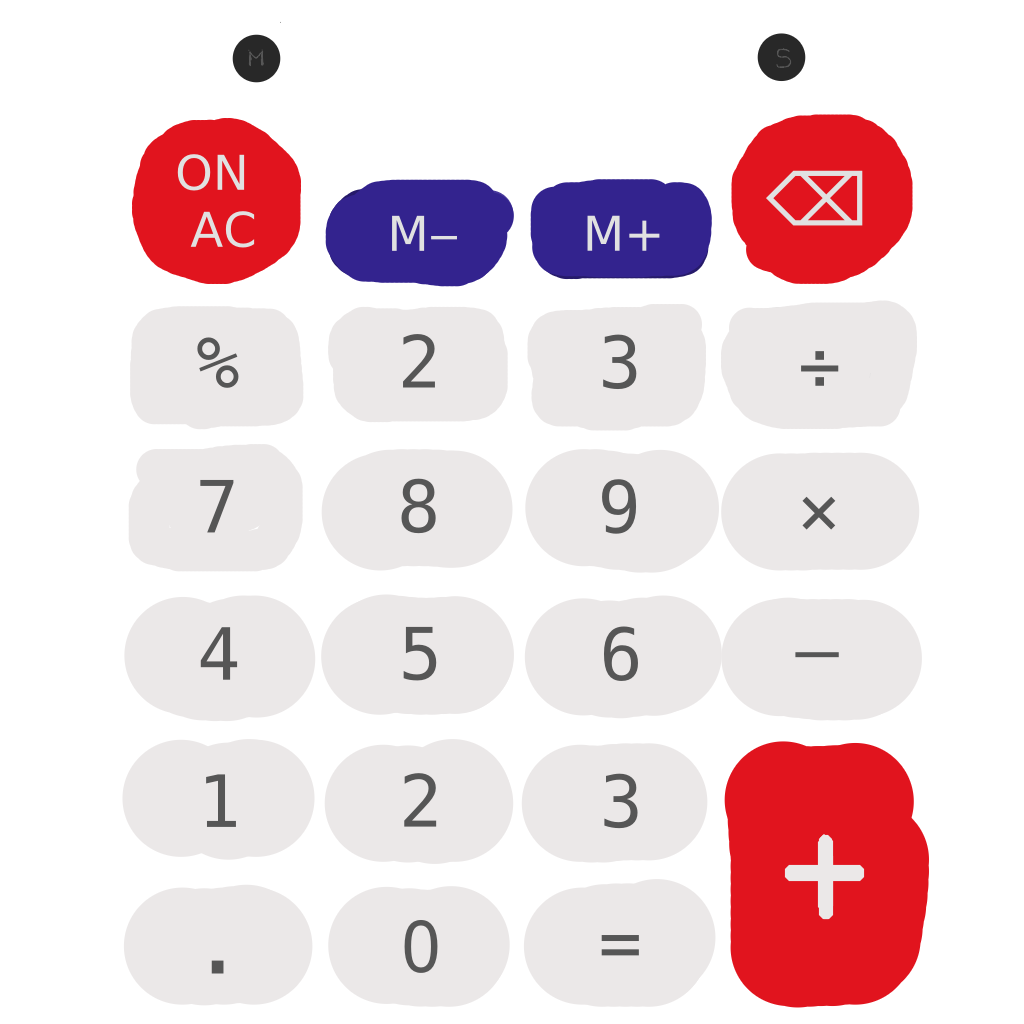
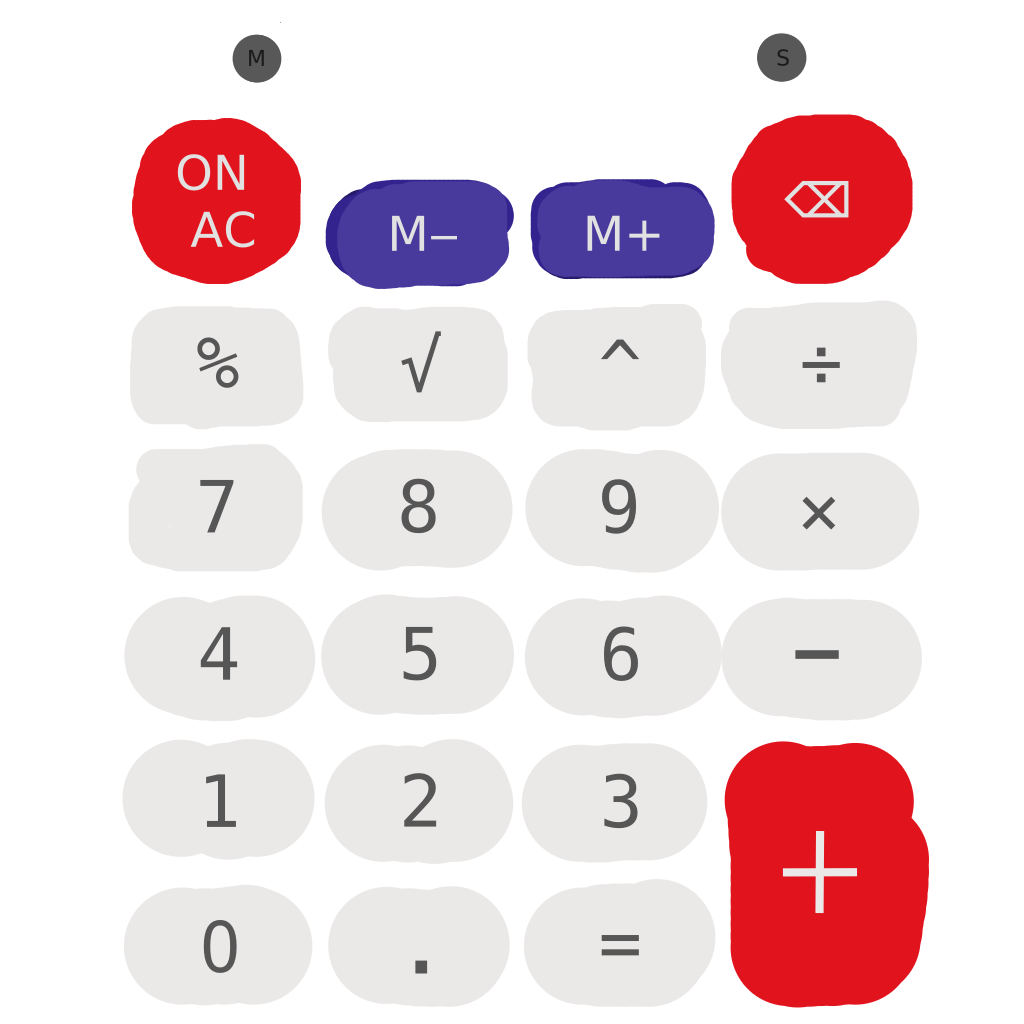
test: add calculator button texture

diff --git a/.test/src/main.js b/.test/src/main.js
@@ -23,6 +23,11 @@ function makeGroup (items) {
     return group
 }
 
+function applyUvFix (texture) {
+    texture.encoding = THREE.sRGBEncoding
+    texture.flipY = false
+}
+
 window.onload = () => {
 
     var tick = 0
@@ -42,7 +47,7 @@ window.onload = () => {
     var scene = new THREE.Scene();
     var camera = new THREE.PerspectiveCamera(45, window.innerWidth / window.innerHeight, 0.1, 1000)
 
-    camera.position.set(-70, 34, 0)
+    camera.position.set(0, 34, 50)
     camera.lookAt(0, 15, 0)
 
     // make trackball controls
@@ -113,23 +118,15 @@ window.onload = () => {
     gltfLoader.load (
         "./assets/calculator.glb",
         glb => {
-            let buttonColors = {
-                "Btn019": "#f02330",
-                "Btn022": "#f02330",
-                "Btn023": "#f02330",
-                "Btn020": "#4545a0",
-                "Btn021": "#4546a0",
-                "Btn024": "#242426",
-                "Btn025": "#242425",
-                "default": "#f0f0f2",
-            }
             calc = makeGroup(glb.scene.children)
             console.log(calc)
+            let btnTexture = textureLoader.load("./assets/calc-buttons.png")
+            applyUvFix(btnTexture)
+            let btnMaterial = new THREE.MeshPhongMaterial({ map: btnTexture })
             for (let item of calc.children) {
-                console.log(item.name)
+                // console.log(item.name)
                 if (item.name.startsWith("Btn")) {
-                    let color = buttonColors[item.name] || buttonColors["default"]
-                    item.material = new THREE.MeshPhongMaterial({ color: color })
+                    item.material = btnMaterial
                 }
                 else if (item.name.startsWith("Body")) {
                     item.material = new THREE.MeshPhongMaterial({ color: "#232325" })
@@ -138,11 +135,11 @@ window.onload = () => {
                     item.material = new THREE.MeshPhongMaterial({ color: "#969d89" })
                 }
             }
-            scene.add(calc)
-            calc.position.set(-30, 10, 0)
-            calc.rotation.y = Math.PI
-            calc.rotation.z = -0.3
+            calc.rotation.x = 0.3
             calc.scale.set(10, 10, 10)
+            calc = makeGroup([calc])
+            scene.add(calc)
+            calc.position.set(0, 18, 26)
         }
     )
 
@@ -161,6 +158,10 @@ window.onload = () => {
         cone1w.rotation.y += 0.005
         cone2.rotation.y += 0.005
         cone2w.rotation.y += 0.005
+
+        if (calc) {
+            calc.rotation.y += 0.008
+        }
             
         requestAnimationFrame(renderScene)
         controls.update()
